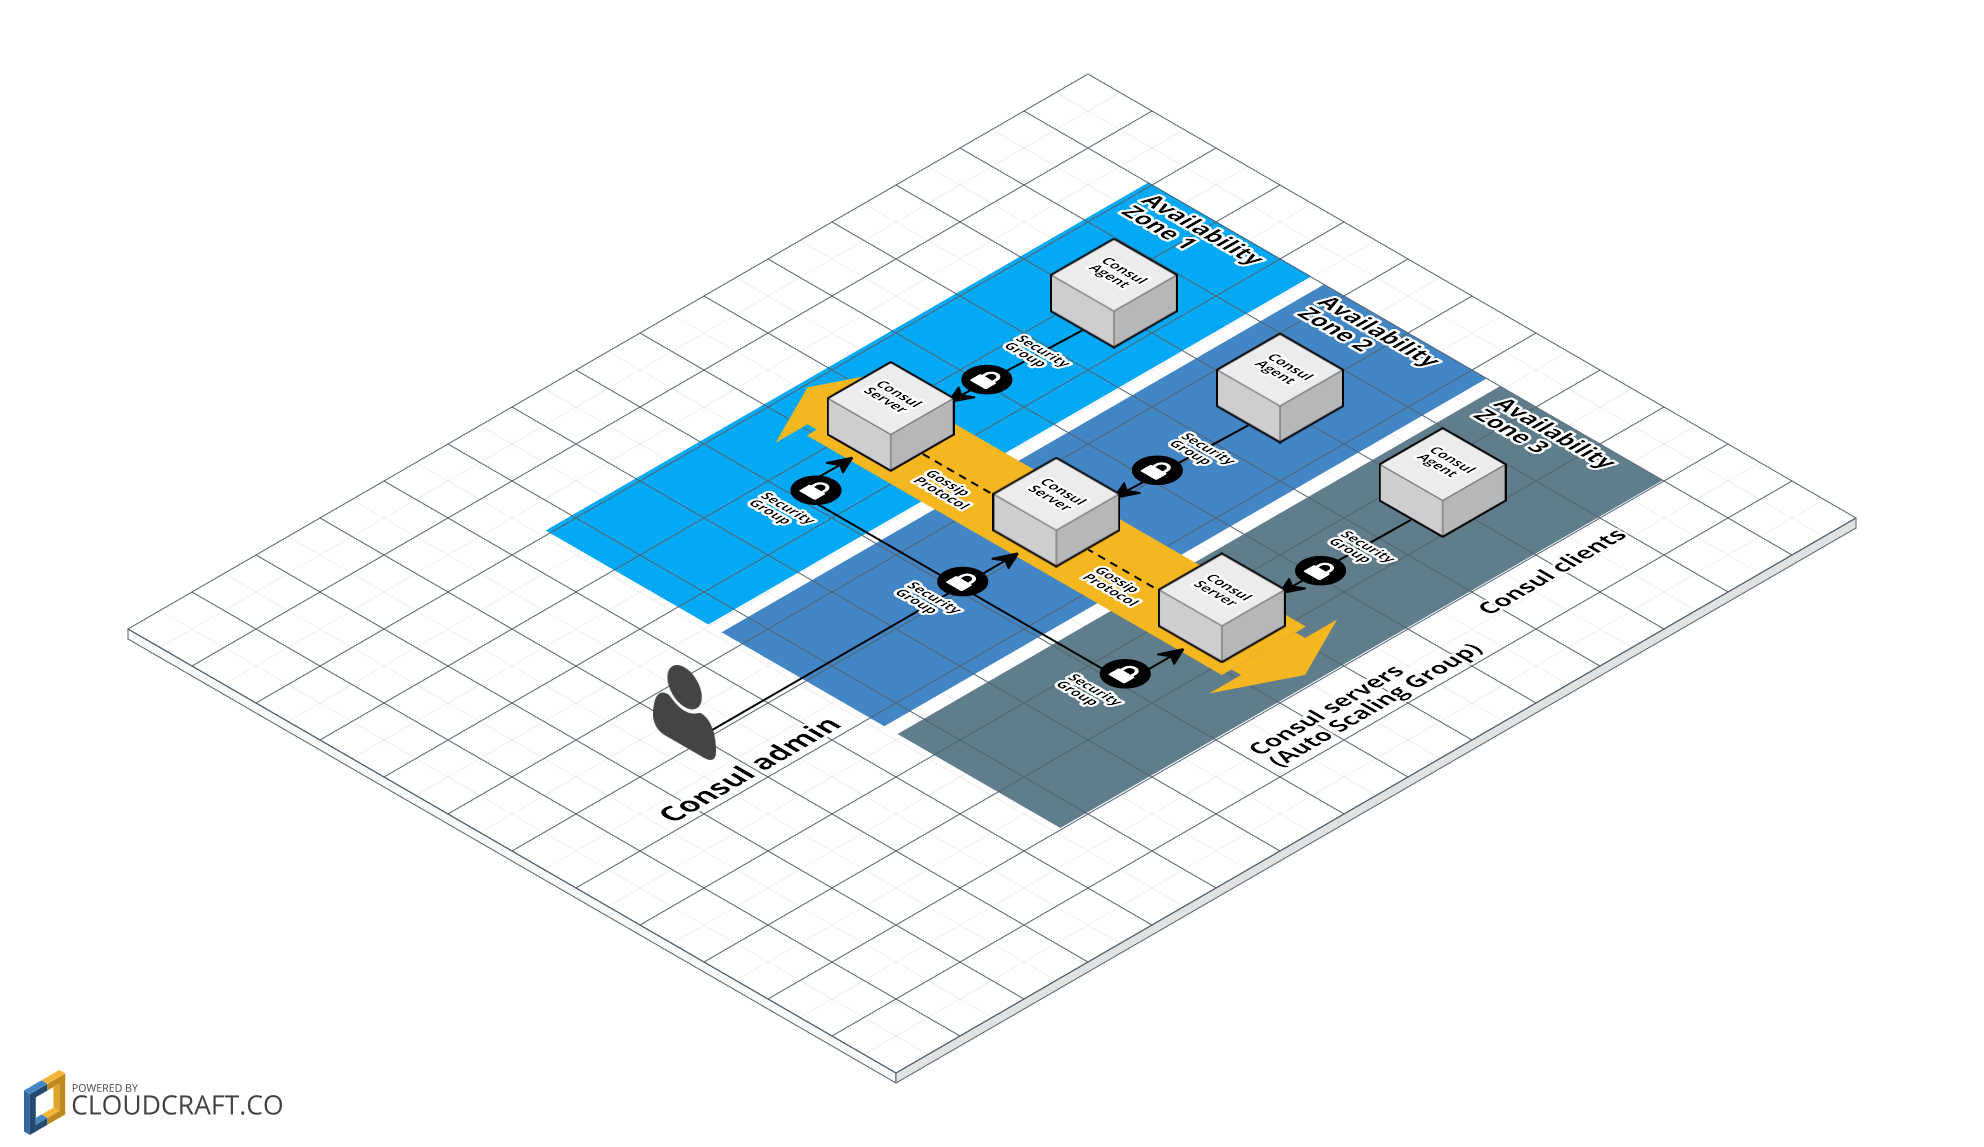
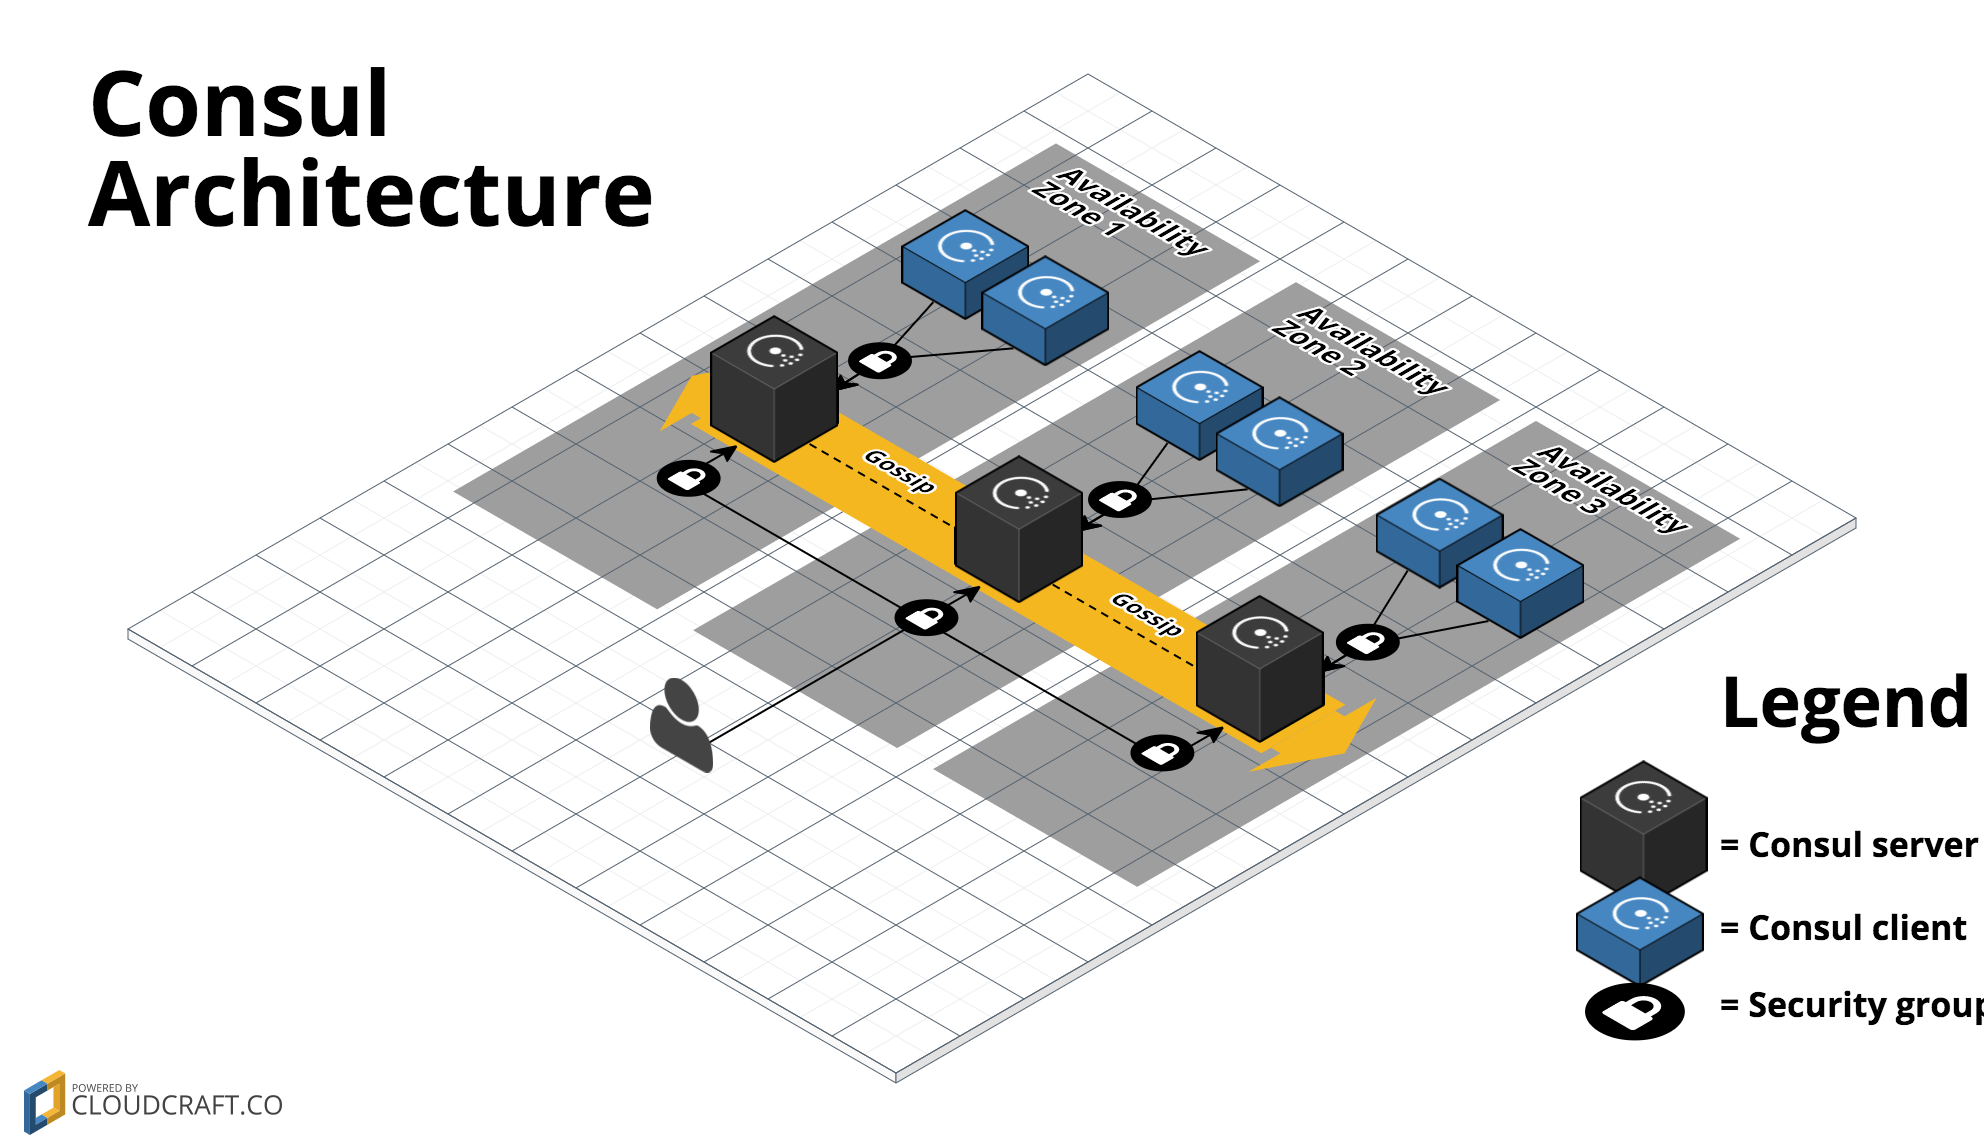
Update architecture diagram. Add it to more READMEs.

diff --git a/examples/consul-cluster/README.md b/examples/consul-cluster/README.md
@@ -1,9 +1,12 @@
 # Consul Cluster Example
 
 This folder shows an example of Terraform code that uses the [consul-cluster](/modules/consul-cluster) module to deploy 
-a [Consul](https://www.consul.io/) cluster on [AWS](https://aws.amazon.com/). This example expects you to create an 
-[Amazon Machine Image (AMI)](http://docs.aws.amazon.com/AWSEC2/latest/UserGuide/AMIs.html) that has Consul installed, 
-which you can do using the [consul-ami example](/examples/consul-ami)).  
+a [Consul](https://www.consul.io/) cluster across an Auto Scaling Group in [AWS](https://aws.amazon.com/). 
+
+![Consul architecture](/_docs/architecture.png)
+
+You will need to create an [Amazon Machine Image (AMI)](http://docs.aws.amazon.com/AWSEC2/latest/UserGuide/AMIs.html) 
+that has Consul installed, which you can do using the [consul-ami example](/examples/consul-ami)).  
 
 For more info on how the Consul cluster works, check out the [consul-cluster](/modules/consul-cluster) documentation.
 

diff --git a/README.md b/README.md
@@ -4,6 +4,8 @@ This repo contains a Blueprint for how to deploy a [Consul](https://www.consul.i
 [AWS](https://aws.amazon.com/) using [Terraform](https://www.terraform.io/). Consul is a distributed, highly-available 
 tool that you can use for service discovery and key/value storage. 
 
+![Consul architecture](/_docs/architecture.png)
+
 This Blueprint includes:
 
 * [install-consul](/modules/install-consul): This module can be used to install Consul. It can be used in a 
